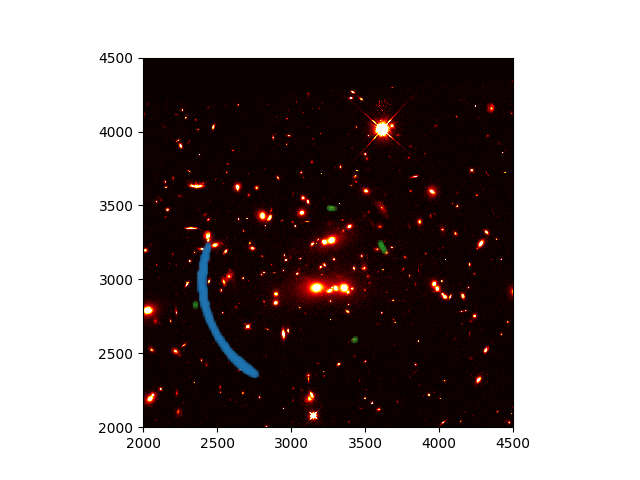
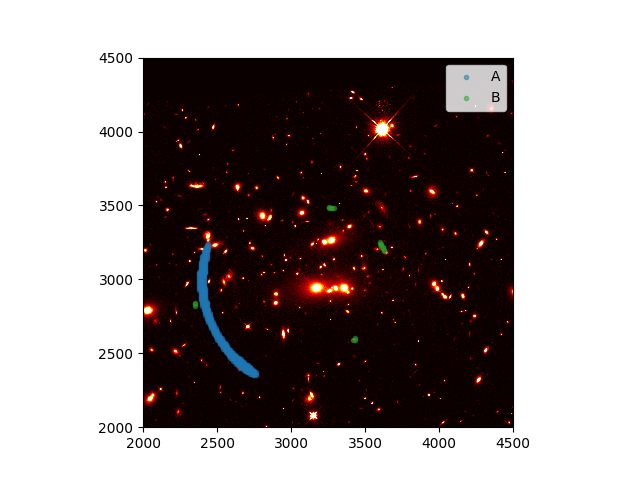
Added legend to predicted images plot. Added init values for src positions as a dictionary.

diff --git a/lensing/get_img_pos.py b/lensing/get_img_pos.py
@@ -7,6 +7,7 @@ import emcee
 from collections import OrderedDict
 from chainconsumer import ChainConsumer
 import pymc
+from collections import OrderedDict
 from dist_ang import scale_einstein_radius
 from mass_model import pred_positions
 from pylens import pylens, MassModels
@@ -70,14 +71,15 @@ def plot_img_pos(pars, pix_scale=1., threshold=0.8, fits_file=None, img_xobs=Non
     plt.xlim(sa[0], sa[1])
     plt.ylim(sa[0], sa[1])
     for name in names:
-        plt.scatter(image_coords_pred[name][0], image_coords_pred[name][1], marker='.', alpha=0.5, c=next(colors))
+        plt.scatter(image_coords_pred[name][0], image_coords_pred[name][1], marker='.', alpha=0.5, c=next(colors), label=name)
+    plt.legend()  # loc='upper left', bbox_to_anchor=(1,1))
     plt.savefig(os.path.join(ROOT_DIR, fig_dir, 'image_with_predicted_image_plane.png'))
 
 
     # print(pylens.getImgPos(x0=0, y0=0, b=21.6, sx=54.83, sy=38.98, lenses=lenses))
 
 
-def get_macs0451_img_pos(pix_scale=1., threshold=0.8, fits_file=None, img_xobs=None, img_yobs=None, d=None):
+def get_macs0451_img_pos(pix_scale=1., threshold=0.8, fits_file=None, img_xobs=None, img_yobs=None, d=None, init=None):
     fig_dir = 'Figures/MACS0451/'
     sa = (2000, 4500)  # search area is 2000 pixels to 5000 pixels
     names = img_xobs.keys()
@@ -85,11 +87,11 @@ def get_macs0451_img_pos(pix_scale=1., threshold=0.8, fits_file=None, img_xobs=N
     X1, Y1, Q1, P1, S1, srcs = {}, {}, {}, {}, {}, {}
     pars, cov = [], []
     for name in names:
-        X1[name] = pymc.Uniform('X1%s' % name, 2300., 3900., value=3034.)
-        Y1[name] = pymc.Uniform('Y1%s' % name, 2400., 3600., value=3053.)
+        X1[name] = pymc.Uniform('X1%s' % name, 2300., 3900., value=init[name]['xsrc'])
+        Y1[name] = pymc.Uniform('Y1%s' % name, 2300., 3900., value=init[name]['ysrc'])
         Q1[name] = pymc.Uniform('Q1%s' % name, 1., 1., value=1.)
         P1[name] = pymc.Uniform('P1%s' % name, 0., 0., value=0.)
-        S1[name] = pymc.Uniform('N1%s' % name, 0., 10., value=3.)
+        S1[name] = pymc.Uniform('N1%s' % name, 0., 10., value=init[name]['sigsrc'])
         srcs[name] = SBObjects.Gauss('', {'x': X1[name], 'y': Y1[name], 'q': Q1[name],'pa': P1[name], 'sigma': S1[name]})
 
         pars += [X1[name], Y1[name], S1[name]]  # List of parameters
@@ -114,8 +116,8 @@ def get_macs0451_img_pos(pix_scale=1., threshold=0.8, fits_file=None, img_xobs=N
     x, y = np.meshgrid(np.arange(sa[0], sa[1], pix_scale), np.arange(sa[0], sa[1], pix_scale))
 
     # MCMC setup
-    nwalkers = 100
-    nsteps = 1000
+    nwalkers = 2000
+    nsteps = 5000
 
     # Define likelihood function
     @pymc.observed
@@ -153,8 +155,10 @@ def get_macs0451_img_pos(pix_scale=1., threshold=0.8, fits_file=None, img_xobs=N
 
             lnlike[name] = -0.5 * (np.sum((img_xpred_compare - img_xobs[name]) ** 2 + (img_ypred_compare - img_yobs[name]) ** 2))
 
-            print(name, img_xpred_compare, lnlike[name], float(srcs[name].x), float(srcs[name].y), float(srcs[name].sigma), float(lens.x), float(lens.y), float(lens.b), float(lens.q), float(lens.pa))
-            print(name, img_ypred_compare, lnlike[name], float(srcs[name].x), float(srcs[name].y), float(srcs[name].sigma), float(lens.x), float(lens.y), float(lens.b), float(lens.q), float(lens.pa))
+            # print(name, img_xpred_compare, lnlike[name], float(srcs[name].x), float(srcs[name].y), float(srcs[name].sigma), float(lens.x), float(lens.y), float(lens.b), float(lens.q), float(lens.pa))
+            # print(name, img_ypred_compare, lnlike[name], float(srcs[name].x), float(srcs[name].y), float(srcs[name].sigma), float(lens.x), float(lens.y), float(lens.b), float(lens.q), float(lens.pa))
+
+        print(sum(lnlike.values()), [(float(srcs[name].x), float(srcs[name].y), float(srcs[name].sigma)) for name in names], float(lens.x), float(lens.y), float(lens.b), float(lens.q), float(lens.pa))
 
         return sum(lnlike.values())
 
@@ -175,7 +179,7 @@ def get_macs0451_img_pos(pix_scale=1., threshold=0.8, fits_file=None, img_xobs=N
             pylab.plot(samples[:, j, i])
 
     # Trim initial samples (ie the burn-in) and concatenate chains
-    burn = 200
+    burn = 600
     samples = samples[burn:].reshape(((nsteps-burn) * nwalkers, len(pars)))
 
     # Get best fit parameters
@@ -198,7 +202,7 @@ def get_macs0451_img_pos(pix_scale=1., threshold=0.8, fits_file=None, img_xobs=N
     fig = c.plotter.plot_walks(convolve=100)
     fig.savefig(os.path.join(ROOT_DIR, fig_dir, 'source_pos_mcmc_walks.png'), transparent=False)
 
-    b = best
+    b = np.array(best)
     print(b)
     plot_img_pos(pars=b, pix_scale=pix_scale, threshold=threshold, fits_file=fits_file, img_xobs=img_xobs, img_yobs=img_yobs, d=d)
 
@@ -207,37 +211,42 @@ def main():
     fits_file_macs0451 = '/home/djm241/PycharmProjects/StrongLensing/data/MACS0451/MACS0451_F110W.fits'
 
     # Observed Image positions
-    img_xobs, img_yobs, d = {}, {}, {}
+    img_xobs, img_yobs, d, init = OrderedDict(), OrderedDict(), OrderedDict(), OrderedDict()
     z_lens = 0.43
     img_xobs['A'] = np.array([2375.942110, 2378.5, 2379.816610, 2381.299088, 2384, 2385.927991, 2389.555816, 2457.694760, 2450.744242, 2442.833333, 2437.857924, 2433.064587, 2427.166666, 2424.099866, 2418.5, 2416.444081, 2462])
     img_yobs['A'] = np.array([3038.016677, 3024, 3012.367933, 2999.365293, 2983.5, 2970.435199, 2955.945319, 2737.545077, 2752.305849, 2766.166666, 2782.058508, 2795.293450, 2811.166666, 2823.079067, 2837.5, 2846.943113, 2728])
-
     d['A'] = scale_einstein_radius(z_lens=z_lens, z_src=2.01)
+    init['A'] = {'xsrc': 3492., 'ysrc': 3084., 'sigsrc': 8.06}
+
     img_xobs['B'] = np.array([3276.693717, 3261.382557, 3427.351819, 3417.043471])
     img_yobs['B'] = np.array([3482.795501, 3482.854177, 2592.719350, 2590.191799])
     d['B'] = scale_einstein_radius(z_lens=z_lens, z_src=1.405)
+    init['B'] = {'xsrc': 3002., 'ysrc': 2968., 'sigsrc': 2.17}
 
     img_xobs['11'] = np.array([3557.178601, 3548.271886, 3541.407488])
     img_yobs['11'] = np.array([3363.943860, 3375.285957, 3385.515024])
     d['11'] = scale_einstein_radius(z_lens=z_lens, z_src=2.06)
+    init['11'] = {'xsrc': 3034, 'ysrc': 3053, 'sigsrc': 3.}
 
     img_xobs['31'] = np.array([2933.063074, 3393.715824])
     img_yobs['31'] = np.array([2943.400421, 3398.196336])
     d['31'] = scale_einstein_radius(z_lens=z_lens, z_src=1.904)
+    init['31'] = {'xsrc': 3034, 'ysrc': 3053, 'sigsrc': 3.}
 
     img_xobs['41'] = np.array([3222.796159, 3227.700108])
     img_yobs['41'] = np.array([3550.903781, 3542.180780])
     d['41'] = scale_einstein_radius(z_lens=z_lens, z_src=1.810)
+    init['41'] = {'xsrc': 3034, 'ysrc': 3053, 'sigsrc': 3.}
 
     pix_scale = 10.
     threshold = 0.01
-    pars = [3.16262049e+03, 3.05315887e+03, 3.33493933e+00, 3.20727741e+03,
-            2.82324330e+03, 7.89457923e+00, 3.26848215e+03, 2.95477656e+03,
-            9.28660800e-01, 3.25573300e+03, 2.98598760e+03, 5.45981363e+00,
-            3.28453396e+03, 3.36018684e+03, 1.23569466e+00, 3.26384999e+03,
-            2.88494833e+03, 1.22169449e+03, 4.91328573e-01, 1.50817176e+02]
+    pars = [3.58912820e+03, 2.88897160e+03, 9.88269466e+00, 3.33105532e+03,
+            2.59306488e+03, 8.92770131e+00, 3.41313563e+03, 2.87755064e+03,
+            9.97310995e+00, 3.37298901e+03, 3.04731473e+03, 9.96573633e+00,
+            3.27903009e+03, 3.33643780e+03, 4.40663257e+00, 3.39754155e+03,
+            2.88361367e+03, 1.74267321e+03, 9.96187889e-01, 1.60007394e+02]
     # plot_img_pos(pars, pix_scale=pix_scale, threshold=threshold, fits_file=fits_file_macs0451, img_xobs=img_xobs, img_yobs=img_yobs, d=d)
-    get_macs0451_img_pos(pix_scale=pix_scale, threshold=threshold, fits_file=fits_file_macs0451, img_xobs=img_xobs, img_yobs=img_yobs, d=d)
+    get_macs0451_img_pos(pix_scale=pix_scale, threshold=threshold, fits_file=fits_file_macs0451, img_xobs=img_xobs, img_yobs=img_yobs, d=d, init=init)
 
     plt.show()
 
